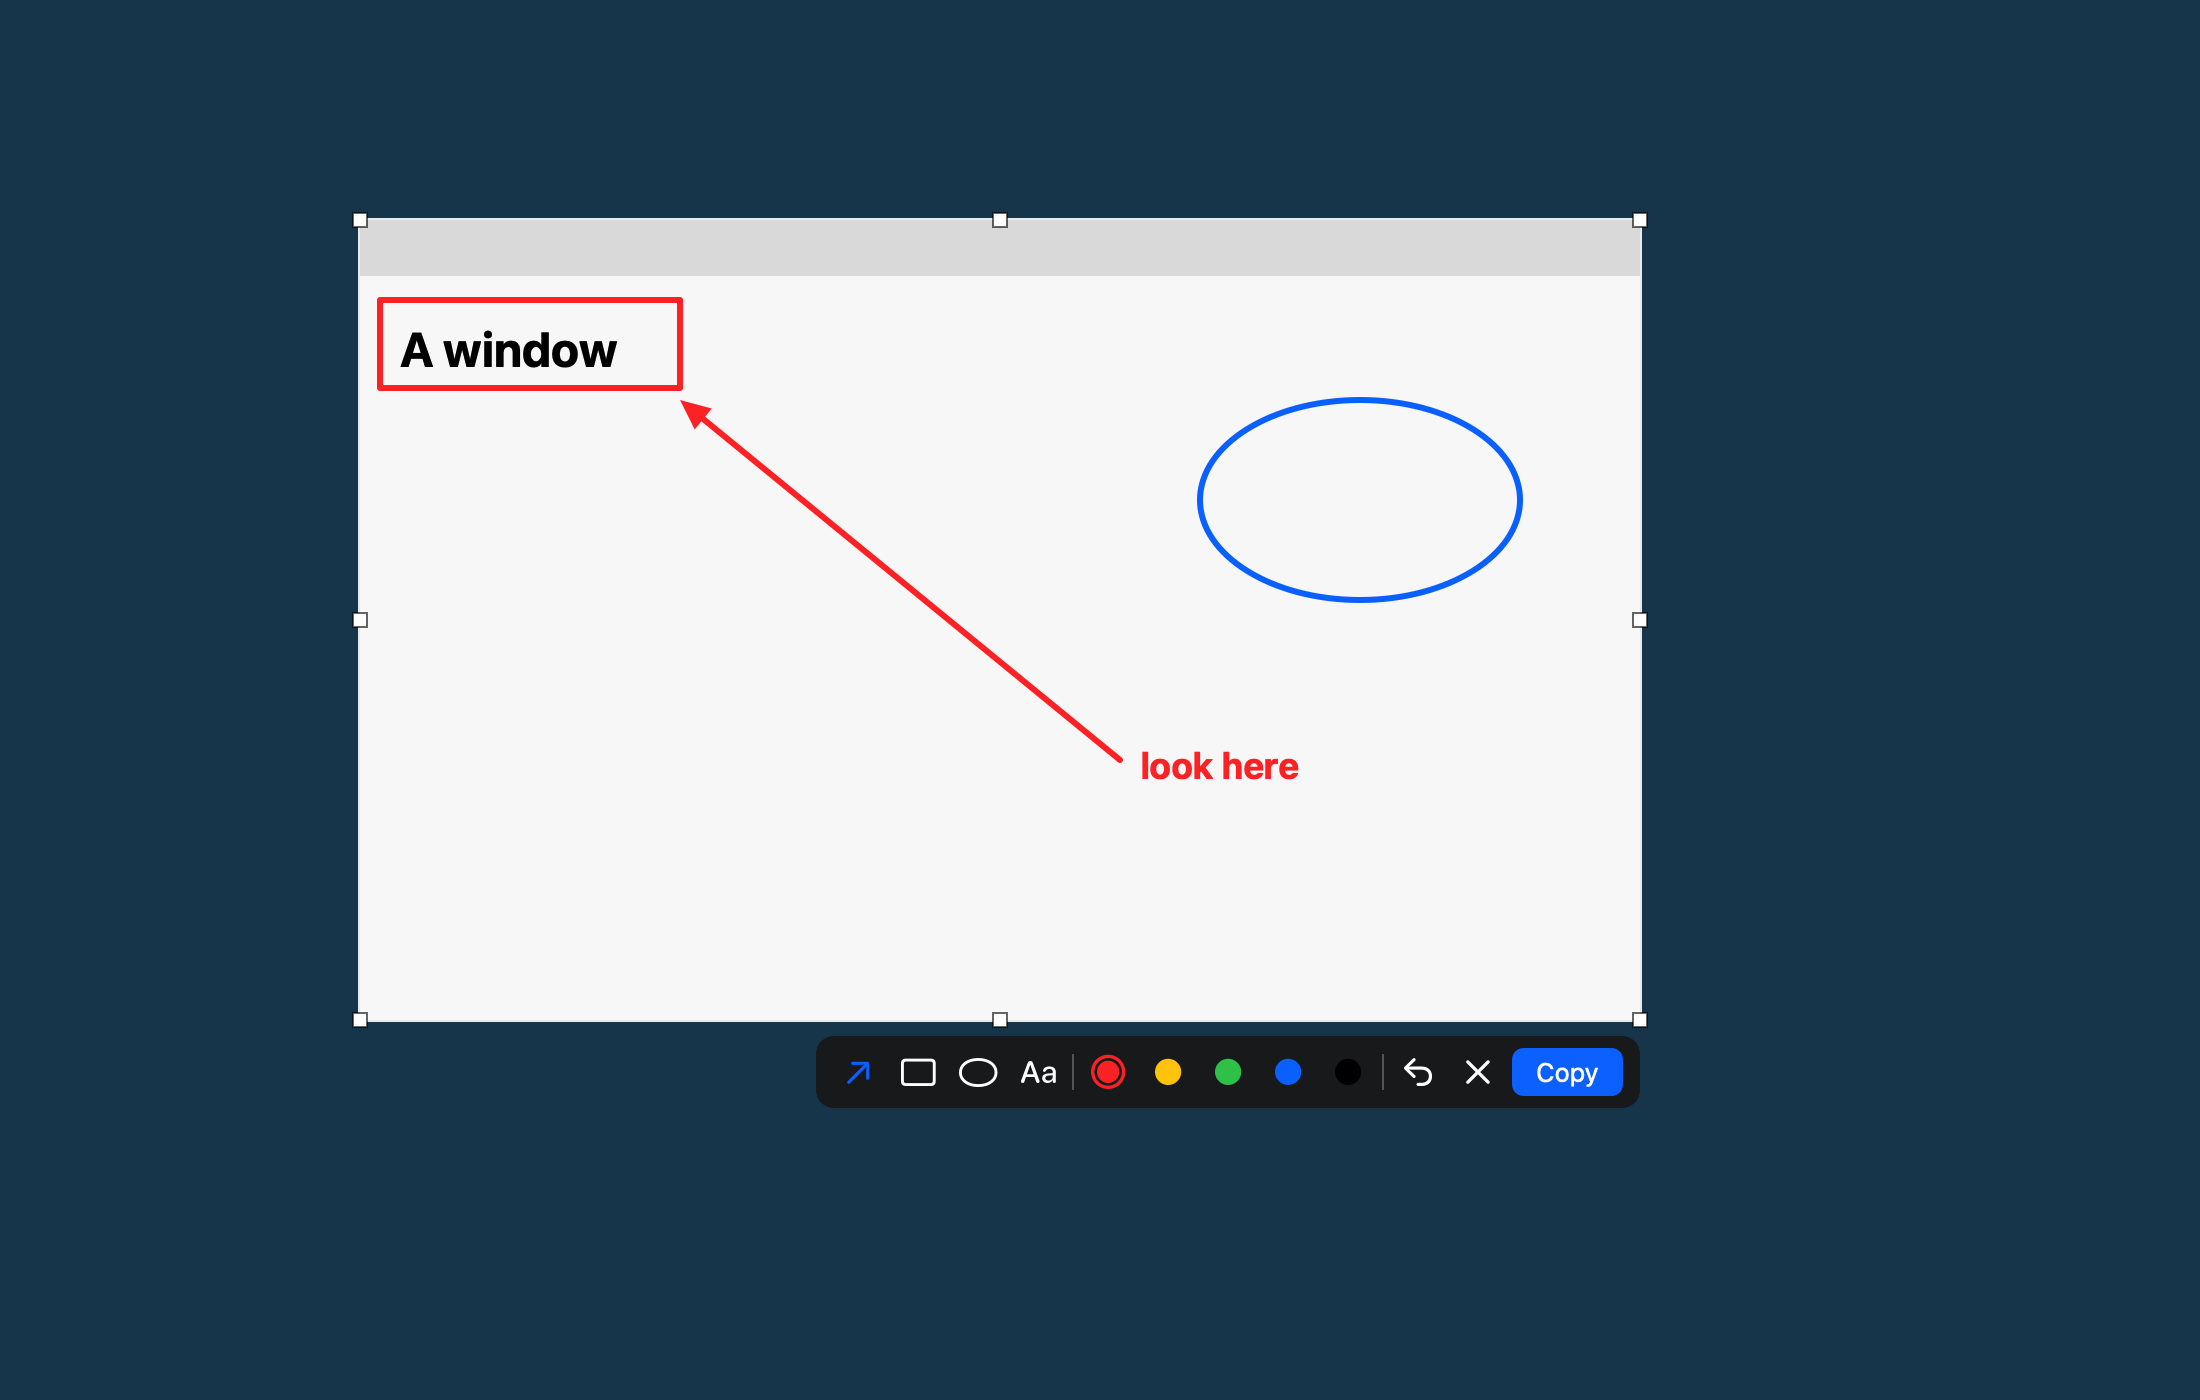
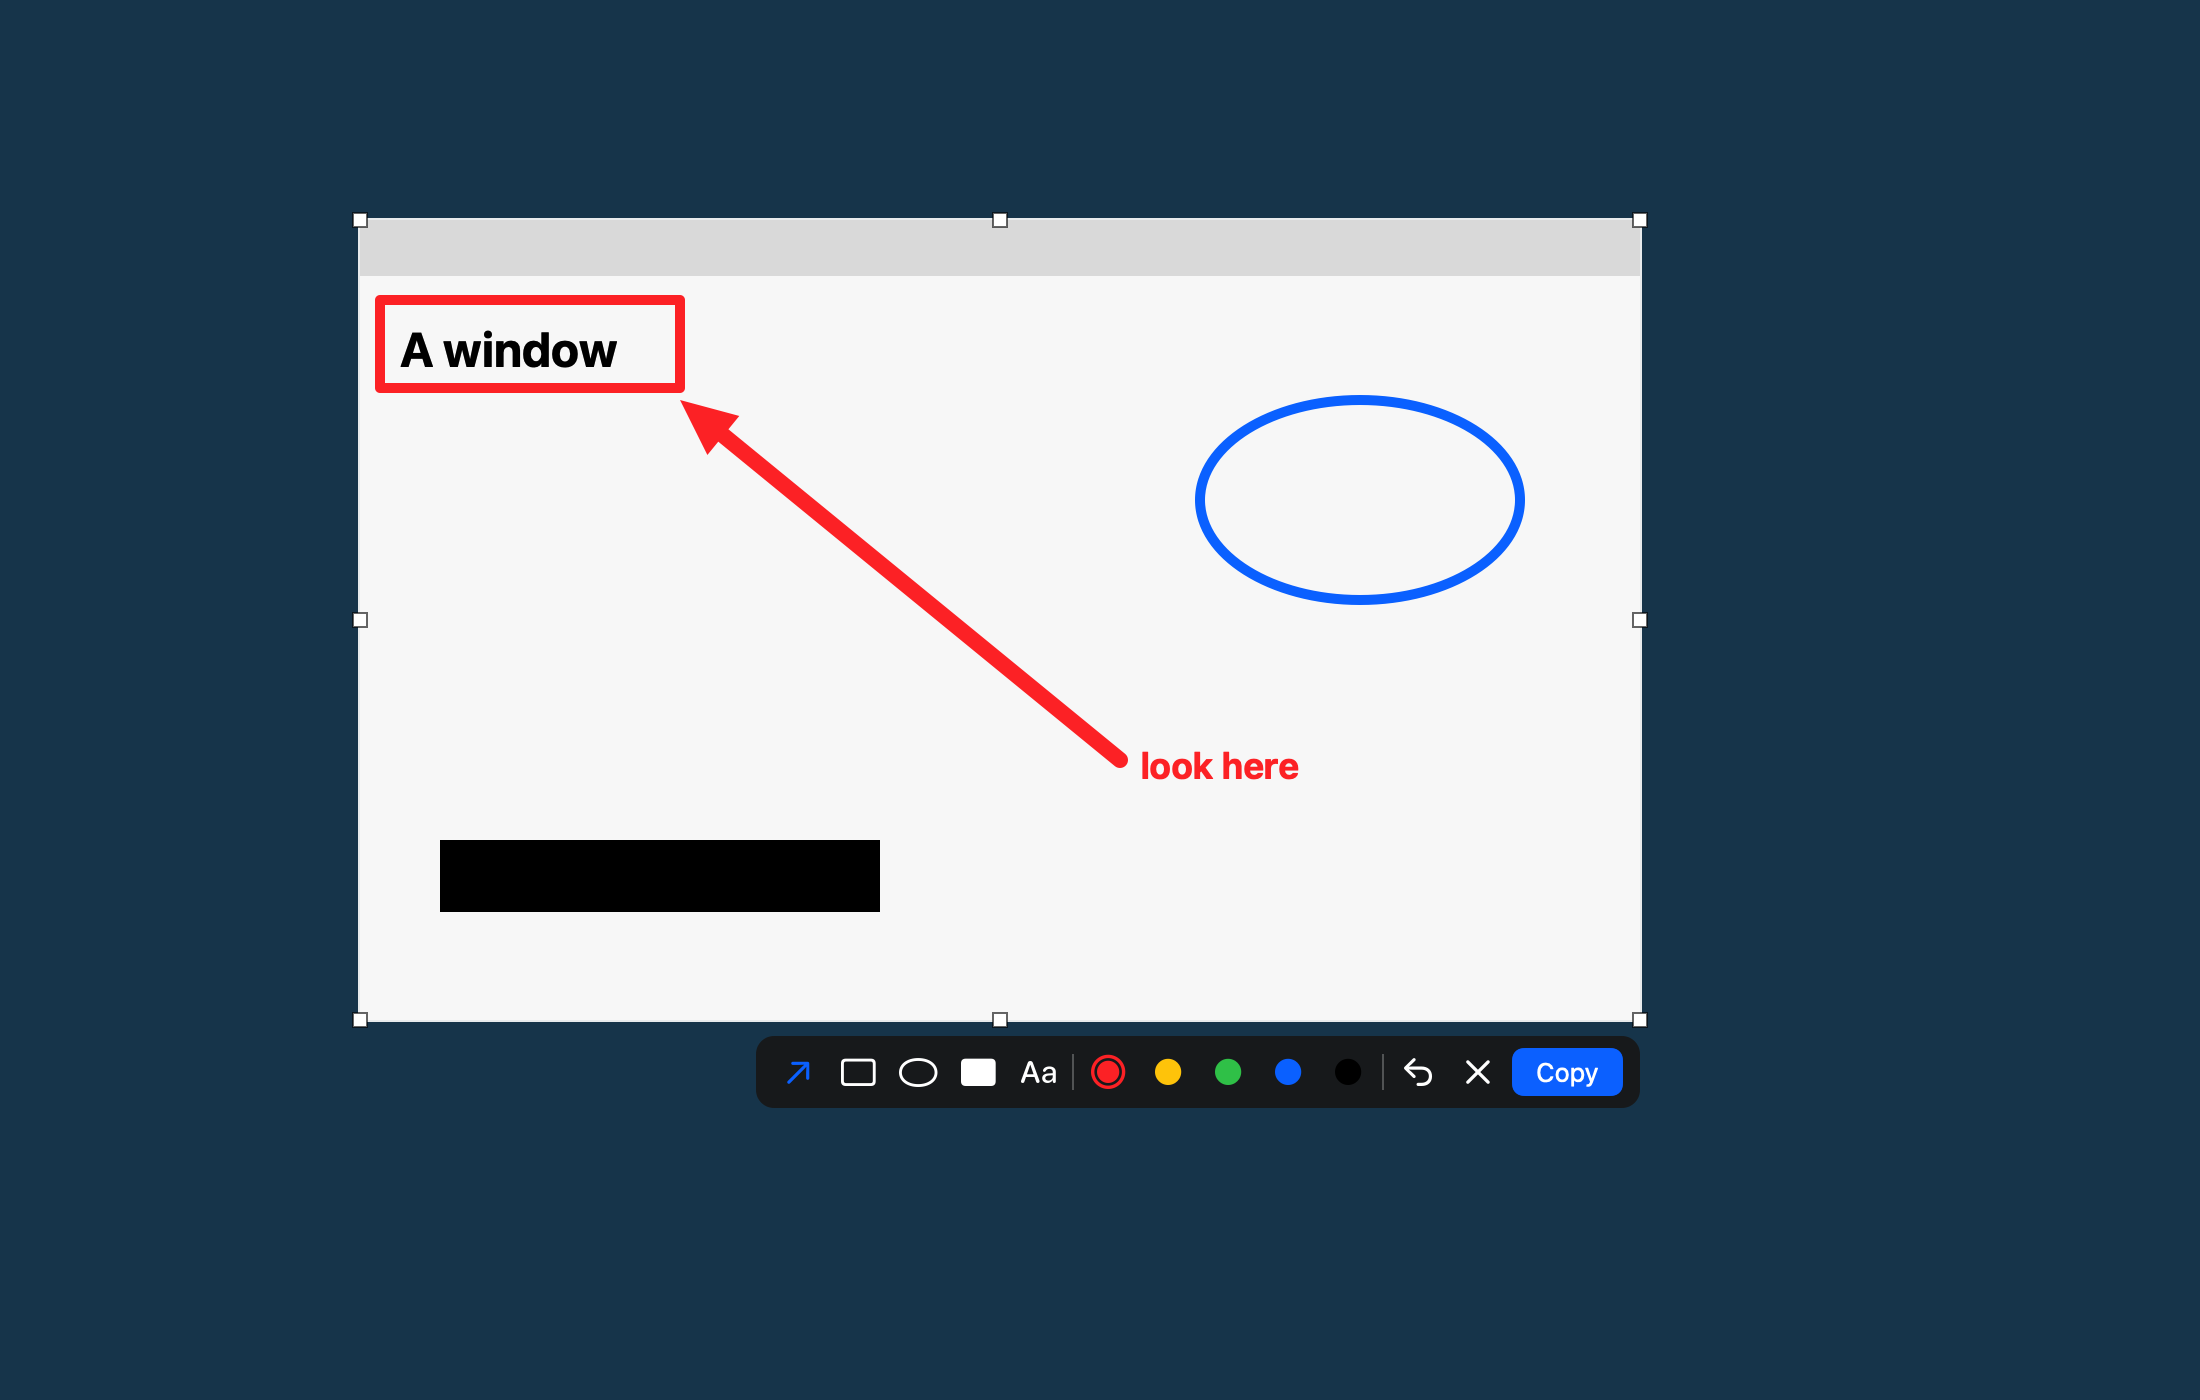
Black-out box tool; thicker lines, thicker still for arrows
A separate tool (B) draws a solid black box for hiding things, apart from
the outline rectangle. Outlines go from 3 pt to 5 pt and arrows to 8 pt.

diff --git a/Sources/IgSnapCore/Annotation.swift b/Sources/IgSnapCore/Annotation.swift
@@ -20,18 +20,23 @@ public struct RGBA: Equatable, Sendable {
 public enum Shape: Equatable, Sendable {
     case arrow(from: CGPoint, to: CGPoint)
     case rectangle(CGRect)
+    /// A solid black box, for hiding what is under it. Ignores the colour.
+    case blackout(CGRect)
     case ellipse(CGRect)
     /// `at` is the top-left of the line of text.
     case text(String, at: CGPoint)
 }
 
 public struct Annotation: Equatable, Sendable {
+    /// Arrows are drawn heavier than outlines: they have to be seen from across the screenshot.
+    public static let arrowWidth: CGFloat = 8
+
     public var shape: Shape
     public var color: RGBA
     public var lineWidth: CGFloat
     public var fontSize: CGFloat
 
-    public init(_ shape: Shape, color: RGBA = .red, lineWidth: CGFloat = 3, fontSize: CGFloat = 18) {
+    public init(_ shape: Shape, color: RGBA = .red, lineWidth: CGFloat = 5, fontSize: CGFloat = 18) {
         (self.shape, self.color, self.lineWidth, self.fontSize) = (shape, color, lineWidth, fontSize)
     }
 }
@@ -54,6 +59,9 @@ public func draw(_ annotation: Annotation, in ctx: CGContext) {
     ctx.setLineJoin(.round)
 
     switch annotation.shape {
+    case .blackout(let rect):
+        ctx.setFillColor(RGBA.black.cgColor)
+        ctx.fill(rect)
     case .rectangle(let rect):
         ctx.stroke(rect)
     case .ellipse(let rect):
@@ -63,7 +71,7 @@ public func draw(_ annotation: Annotation, in ctx: CGContext) {
         let length = (dx * dx + dy * dy).squareRoot()
         guard length > 0 else { return }
         let ux = dx / length, uy = dy / length
-        let head = min(max(12, annotation.lineWidth * 5), length)
+        let head = min(max(14, annotation.lineWidth * 3.5), length)
         let half = head * 0.45
         // The shaft stops inside the head so its round cap doesn't blunt the tip.
         let base = CGPoint(x: to.x - ux * head, y: to.y - uy * head)

diff --git a/Sources/IgSnap/Toolbar.swift b/Sources/IgSnap/Toolbar.swift
@@ -2,12 +2,13 @@ import AppKit
 import IgSnapCore
 
 enum Tool: CaseIterable {
-    case arrow, rectangle, ellipse, text
+    case arrow, rectangle, ellipse, blackout, text
 
     var symbol: String {
         switch self {
         case .arrow: "arrow.up.right"
         case .rectangle: "rectangle"
+        case .blackout: "rectangle.fill"
         case .ellipse: "oval"
         case .text: "textformat"
         }
@@ -16,6 +17,7 @@ enum Tool: CaseIterable {
         switch self {
         case .arrow: "a"
         case .rectangle: "r"
+        case .blackout: "b"
         case .ellipse: "e"
         case .text: "t"
         }
@@ -24,6 +26,7 @@ enum Tool: CaseIterable {
         switch self {
         case .arrow: "Arrow"
         case .rectangle: "Rectangle"
+        case .blackout: "Black out"
         case .ellipse: "Ellipse"
         case .text: "Text"
         }

diff --git a/Sources/IgSnap/Demo.swift b/Sources/IgSnap/Demo.swift
@@ -24,7 +24,10 @@ func renderDemo(to path: String) {
     let view = OverlayView(
         frame: CGRect(origin: .zero, size: size), image: ctx.makeImage()!, scale: scale, windows: [windowRect])
     view.select(windowRect)
-    view.add(Annotation(.arrow(from: CGPoint(x: 560, y: 380), to: CGPoint(x: 340, y: 200))))
+    view.add(
+        Annotation(.arrow(from: CGPoint(x: 560, y: 380), to: CGPoint(x: 340, y: 200)), lineWidth: Annotation.arrowWidth)
+    )
+    view.add(Annotation(.blackout(CGRect(x: 220, y: 420, width: 220, height: 36))))
     view.add(Annotation(.rectangle(CGRect(x: 190, y: 150, width: 150, height: 44))))
     view.add(Annotation(.ellipse(CGRect(x: 600, y: 200, width: 160, height: 100)), color: .blue))
     view.add(Annotation(.text("look here", at: CGPoint(x: 570, y: 372)), color: .red))

diff --git a/Sources/IgSnap/SelfTest.swift b/Sources/IgSnap/SelfTest.swift
@@ -94,6 +94,12 @@ func selfTest() -> Bool {
     drag(view, window, from: CGPoint(x: 300, y: 200), to: CGPoint(x: 400, y: 300))
     check(
         view.annotations.last?.shape == .ellipse(CGRect(x: 300, y: 200, width: 100, height: 100)), "E draws an ellipse")
+    view.keyDown(with: key("b", in: window))
+    drag(view, window, from: CGPoint(x: 300, y: 200), to: CGPoint(x: 400, y: 300))
+    check(
+        view.annotations.last?.shape == .blackout(CGRect(x: 300, y: 200, width: 100, height: 100)), "B blacks out a box"
+    )
+    view.keyDown(with: key("z", command: true, in: window))
     check(view.annotations.count == 3, "three annotations")
     view.keyDown(with: key("z", command: true, in: window))
     check(view.annotations.count == 2, "⌘Z removes the last")

diff --git a/Tests/IgSnapCoreTests/CoreTests.swift b/Tests/IgSnapCoreTests/CoreTests.swift
@@ -122,3 +122,11 @@ private func isRed(_ p: [UInt8]) -> Bool { p[0] > 200 && p[1] < 100 && p[2] < 10
         render(image: fixture(), selection: CGRect(x: 500, y: 500, width: 10, height: 10), scale: 2, annotations: [])
             == nil)
 }
+
+@Test func aBlackoutBoxIsSolidBlackWhateverTheColour() throws {
+    let selection = CGRect(x: 50, y: 50, width: 50, height: 50)
+    let box = Annotation(.blackout(CGRect(x: 60, y: 60, width: 20, height: 20)), color: .red)
+    let out = try #require(render(image: fixture(), selection: selection, scale: 2, annotations: [box]))
+    #expect(pixel(out, 40, 40) == [0, 0, 0])  // the middle is filled
+    #expect(pixel(out, 80, 80) == [255, 255, 255])  // outside is untouched
+}

diff --git a/Sources/IgSnap/OverlayView.swift b/Sources/IgSnap/OverlayView.swift
@@ -179,10 +179,11 @@ final class OverlayView: NSView, NSTextFieldDelegate {
                 switch tool {
                 case .arrow: .arrow(from: from, to: p)
                 case .rectangle: .rectangle(spanning(from: from, to: p))
+                case .blackout: .blackout(spanning(from: from, to: p))
                 case .ellipse: .ellipse(spanning(from: from, to: p))
                 case .text: .text("", at: from)
                 }
-            draft = Annotation(shape, color: color)
+            draft = Annotation(shape, color: color, lineWidth: tool == .arrow ? Annotation.arrowWidth : 5)
         case nil: break
         }
         refresh()

diff --git a/PLAN.md b/PLAN.md
@@ -18,7 +18,8 @@ The gap is narrow: annotate in place and copy with one key, with window snap, in
 - **Run-and-quit.** No hotkey, no menu bar item. Launching the app is the trigger, so Alfred or `y sss` can call it.
 - **Window snap** means hover highlights the window under the pointer and a click takes its frame.
 - **Annotate in place** on the frozen screen, not in a separate editor window.
-- **Tools:** arrow, rectangle, ellipse, text. Five colours. Undo.
+- **Tools:** arrow, rectangle, ellipse, black-out box, text. Five colours, red by default. Undo.
+  Lines are 5 pt and arrows 8 pt: thin ones got lost on a real screenshot.
 - **macOS 27 only.**
 
 ## Design

diff --git a/README.md b/README.md
@@ -18,7 +18,7 @@ The first run asks for Screen Recording permission (System Settings → Privacy 
 | --- | --- |
 | Hover, click | Take the window under the pointer |
 | Drag | Take a region. Handles adjust it; dragging outside starts over |
-| `A` `R` `E` `T` | Arrow, rectangle, ellipse, text |
+| `A` `R` `E` `B` `T` | Arrow, rectangle, ellipse, black-out box, text |
 | ⌘Z | Undo |
 | Return or ⌘C | Copy and quit |
 | Esc or right-click | Quit |
